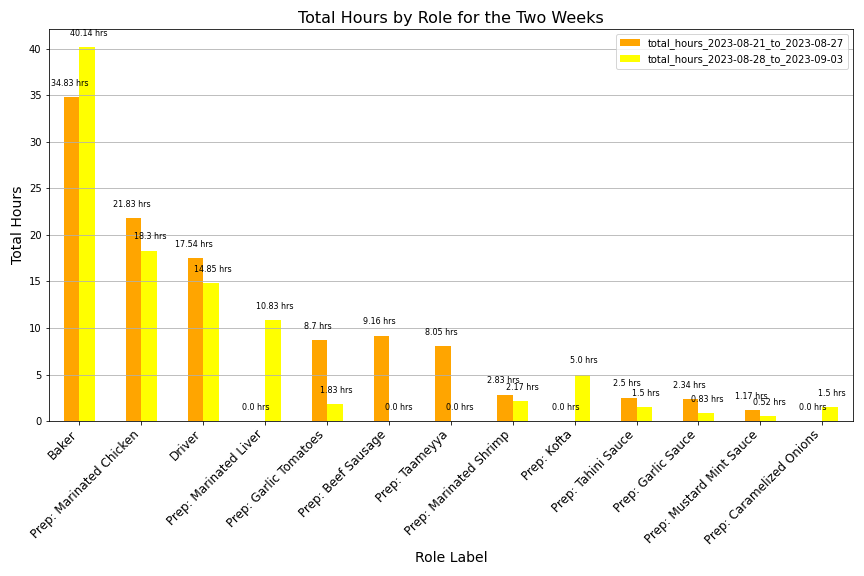
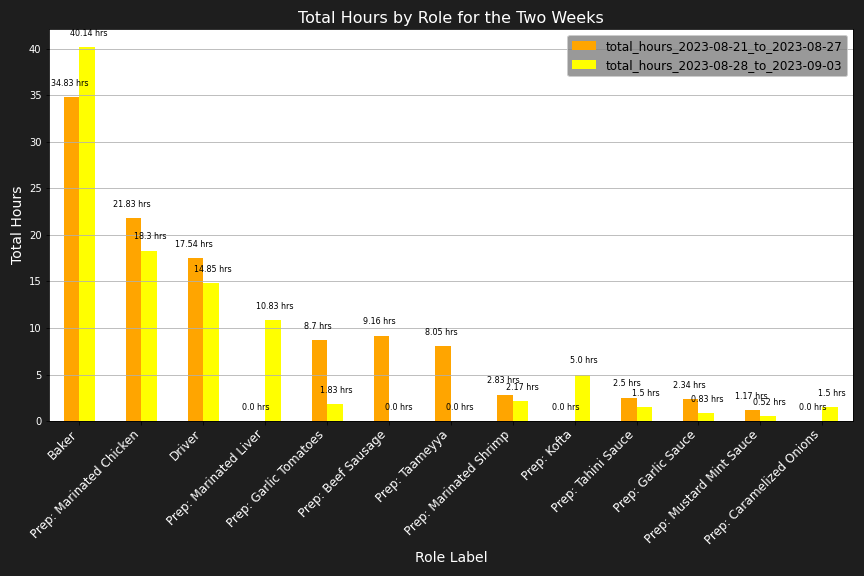
Update formatting of bar charts

diff --git a/PrepCost_analysis/Prepcost.py b/PrepCost_analysis/Prepcost.py
@@ -69,24 +69,25 @@ def plot_combined_chart(df_filtered1, df_filtered2, date_range_str1, date_range_
     df_combined_pay.sort_values('total_pay_sum', ascending=False, inplace=True)
     df_combined_pay.drop(columns=['total_pay_sum'], inplace=True)
 
-    # Plotting the combined bar chart for total pay
-    ax = df_combined_pay.plot(x='role_label', y=[f'total_pay_{date_range_str1}', f'total_pay_{date_range_str2}'], kind='bar', figsize=(12, 8))
-    plt.title('Total Pay by Role for the Two Weeks', fontsize=16)
-    plt.ylabel('Total Pay', fontsize=14)
-    plt.xlabel('Role Label', fontsize=14)
-    plt.xticks(rotation=45, ha="right", fontsize=12)
+    # For the total pay bar chart
+    ax1 = df_combined_pay.plot(x='role_label', y=[f'total_pay_{date_range_str1}', f'total_pay_{date_range_str2}'], kind='bar', figsize=(12, 8))
+    plt.title('Total Pay by Role for the Two Weeks', fontsize=16, color='white')
+    plt.ylabel('Total Pay', fontsize=14, color='white')
+    plt.xlabel('Role Label', fontsize=14, color='white')
+    plt.xticks(rotation=45, ha="right", fontsize=12, color='white')
+    plt.yticks(color='white')
+    ax1.legend(fontsize=12, facecolor='grey')
     plt.grid(axis='y')
 
     # Adding the total_pay values on top of the bars
     for i, v in enumerate(df_combined_pay[f'total_pay_{date_range_str1}']):
-        ax.text(i - 0.15, v + 10, "$"+str(round(v, 2)), ha='center', va='bottom', fontsize=8)
+        ax1.text(i - 0.15, v + 10, "$"+str(round(v, 2)), ha='center', va='bottom', fontsize=8, color='black')
 
     for i, v in enumerate(df_combined_pay[f'total_pay_{date_range_str2}']):
-        ax.text(i + 0.15, v + 10, "$"+str(round(v, 2)), ha='center', va='bottom', fontsize=8)
+        ax1.text(i + 0.15, v + 10, "$"+str(round(v, 2)), ha='center', va='bottom', fontsize=8, color='black')
 
     plt.tight_layout()
-    plt.savefig(f'combined_barchart_pay_{date_range_str1}_and_{date_range_str2}.png')
-    print(f"Combined bar chart for total pay saved as combined_barchart_pay_{date_range_str1}_and_{date_range_str2}.png")
+    plt.savefig(f'combined_barchart_pay_{date_range_str1}_and_{date_range_str2}.png', facecolor='#1e1e1e')  # Assuming GitHub dark mode background color
     plt.close()
 
     # Combining the data of both weeks into a single data frame for total hours
@@ -97,23 +98,24 @@ def plot_combined_chart(df_filtered1, df_filtered2, date_range_str1, date_range_
     df_combined_hours.sort_values('total_hours_sum', ascending=False, inplace=True)
     df_combined_hours.drop(columns=['total_hours_sum'], inplace=True)
 
-    # Plotting the combined bar chart for total hours
-    ax = df_combined_hours.plot(x='role_label', y=[f'total_hours_{date_range_str1}', f'total_hours_{date_range_str2}'], kind='bar', color=['orange', 'yellow'], figsize=(12, 8))
-    plt.title('Total Hours by Role for the Two Weeks', fontsize=16)
-    plt.ylabel('Total Hours', fontsize=14)
-    plt.xlabel('Role Label', fontsize=14)
-    plt.xticks(rotation=45, ha="right", fontsize=12)
+    ax2 = df_combined_hours.plot(x='role_label', y=[f'total_hours_{date_range_str1}', f'total_hours_{date_range_str2}'], kind='bar', color=['orange', 'yellow'], figsize=(12, 8))
+    plt.title('Total Hours by Role for the Two Weeks', fontsize=16, color='white')
+    plt.ylabel('Total Hours', fontsize=14, color='white')
+    plt.xlabel('Role Label', fontsize=14, color='white')
+    plt.xticks(rotation=45, ha="right", fontsize=12, color='white')
+    plt.yticks(color='white')
+    ax2.legend(fontsize=12, facecolor='grey')
     plt.grid(axis='y')
 
     # Adding the total_hours values on top of the bars
     for i, v in enumerate(df_combined_hours[f'total_hours_{date_range_str1}']):
-        ax.text(i - 0.15, v + 1, str(round(v, 2))+' hrs', ha='center', va='bottom', fontsize=8)
+        ax2.text(i - 0.15, v + 1, str(round(v, 2))+' hrs', ha='center', va='bottom', fontsize=8, color='black')
 
     for i, v in enumerate(df_combined_hours[f'total_hours_{date_range_str2}']):
-        ax.text(i + 0.15, v + 1, str(round(v, 2))+' hrs', ha='center', va='bottom', fontsize=8)
+        ax2.text(i + 0.15, v + 1, str(round(v, 2))+' hrs', ha='center', va='bottom', fontsize=8, color='black')
 
     plt.tight_layout()
-    plt.savefig(f'combined_barchart_hours_{date_range_str1}_and_{date_range_str2}.png')
+    plt.savefig(f'combined_barchart_hours_{date_range_str1}_and_{date_range_str2}.png', facecolor='#1e1e1e')
     print(f"Combined bar chart for total hours saved as combined_barchart_hours_{date_range_str1}_and_{date_range_str2}.png")
 
 date_ranges = calculate_date_ranges()
